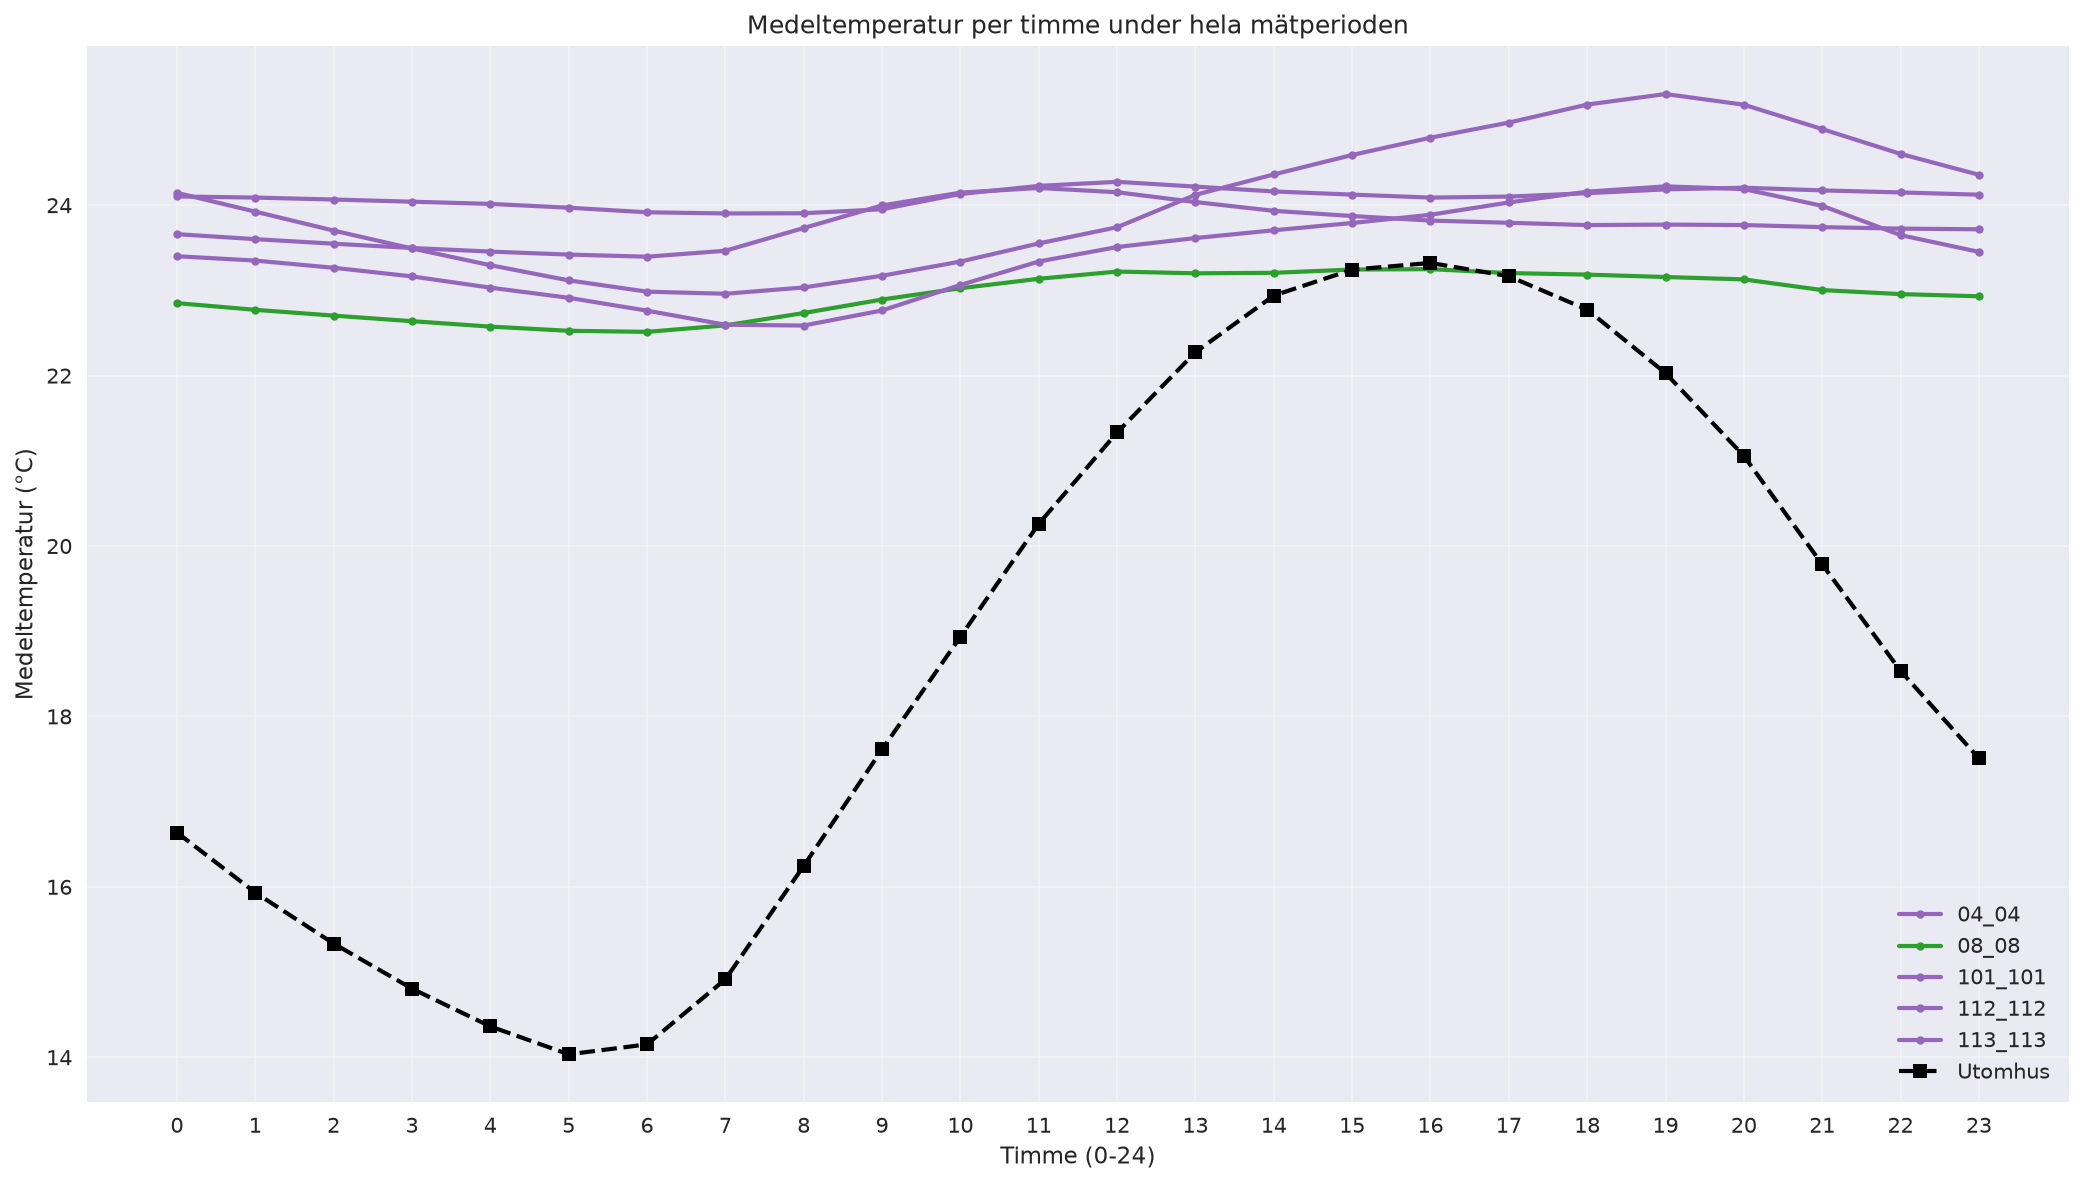
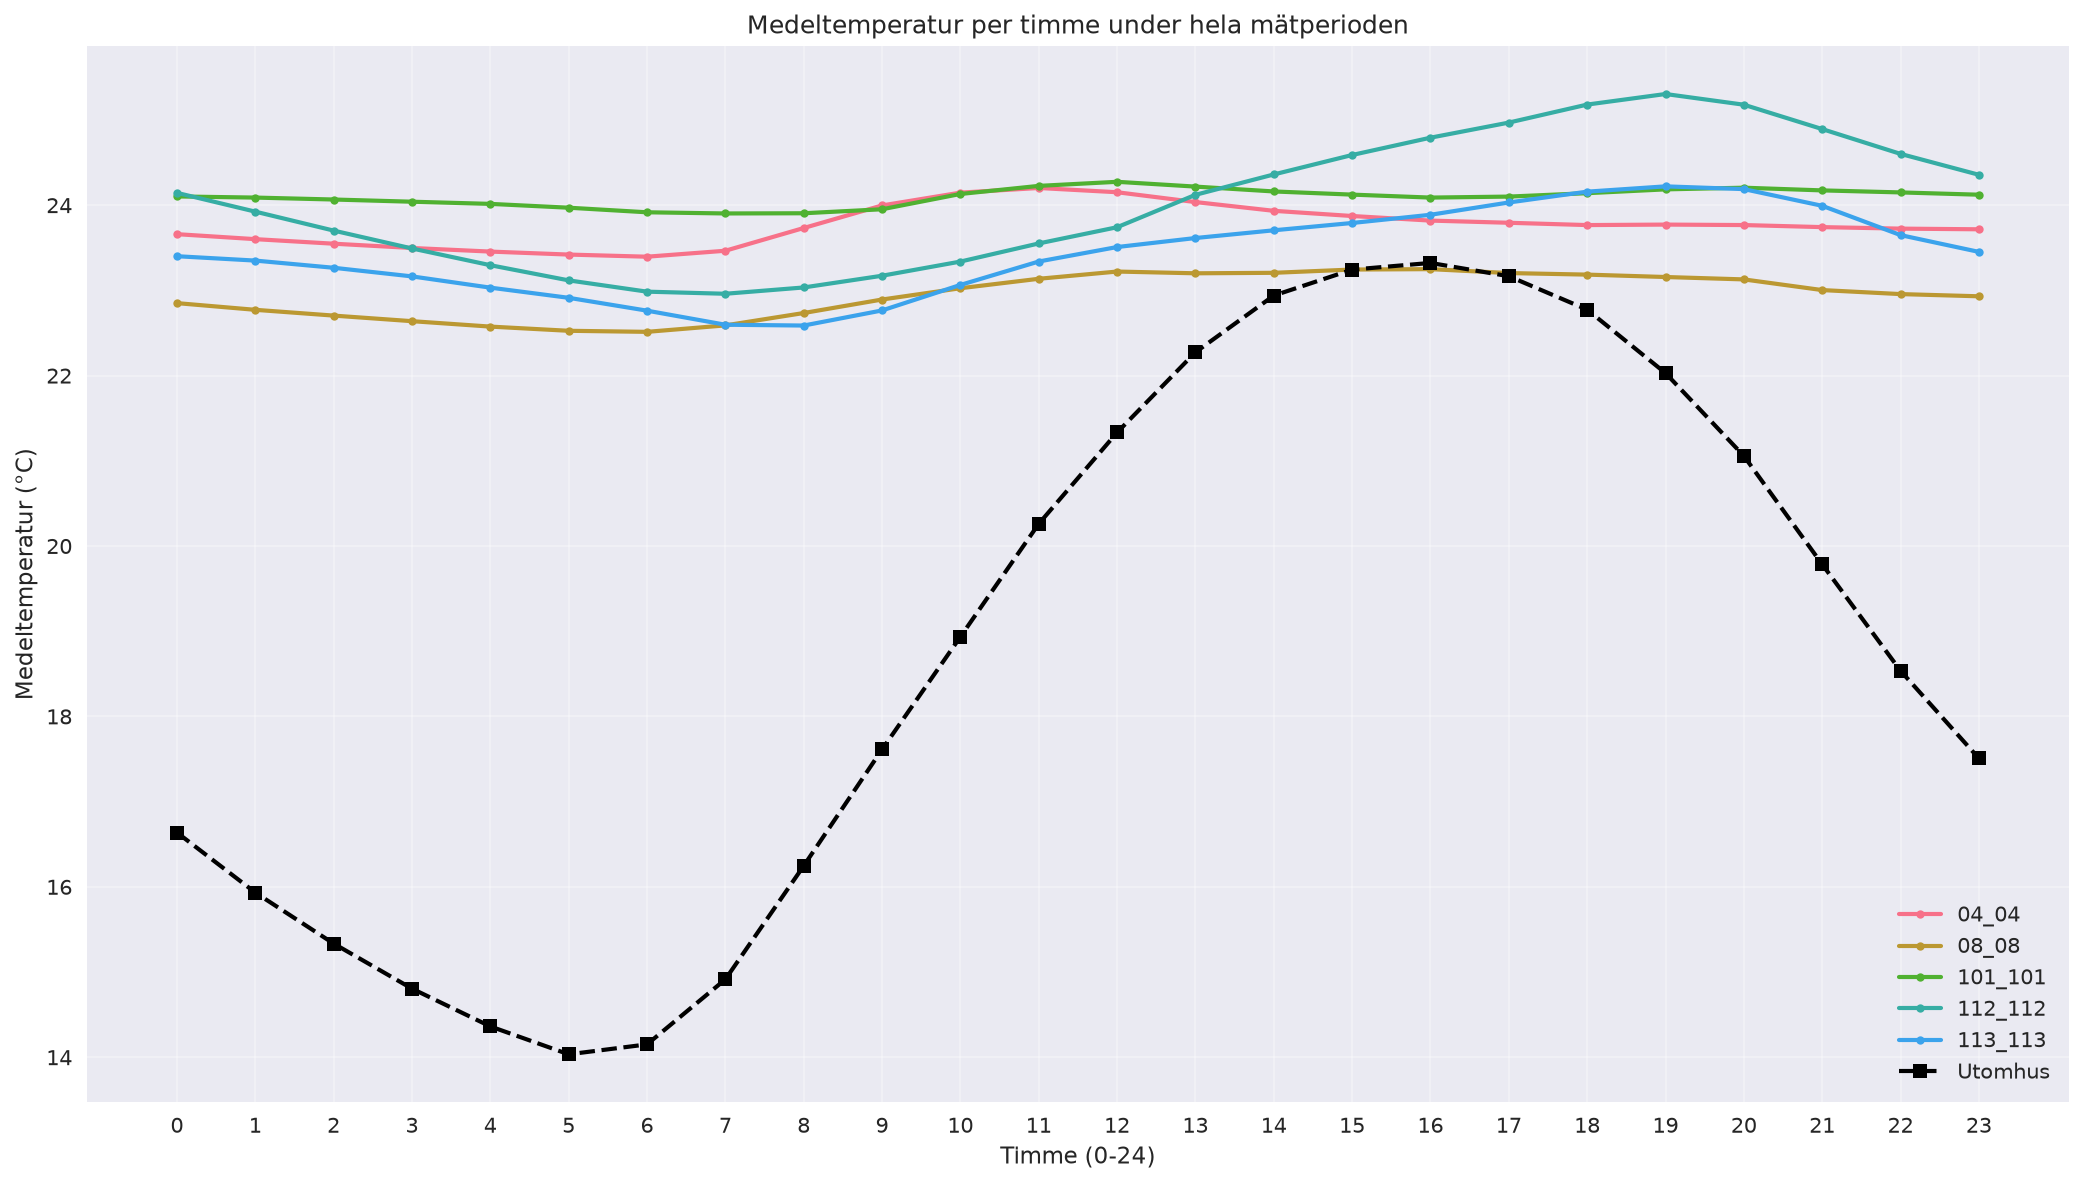
Update hourly temperature diagram with distinct colors for each apartment

diff --git a/analyze_temperature.py b/analyze_temperature.py
@@ -297,14 +297,15 @@ def plot_results(classifications, df_features, sensor_names, indoor_data, outdoo
 
     # --- 6. Medeltemperatur per timme för alla lägenheter ---
     plt.figure(figsize=(14, 8))
-    colors = [HEATING_CATEGORIES[classifications[s]]['color'] for s in sensor_names]
+    # Använd distinkta färger från seaborn-paletten för varje lägenhet
+    distinct_colors = sns.color_palette('husl', n_colors=len(sensor_names) + 1)
     for i, sensor in enumerate(sensor_names):
         df = indoor_data[sensor]
         df['hour'] = df['timestamp'].dt.hour
         hourly_avg = df.groupby('hour')['temperature'].mean()
-        plt.plot(range(24), hourly_avg, label=sensor, color=colors[i], marker='o', linewidth=2, markersize=4)
+        plt.plot(range(24), hourly_avg, label=sensor, color=distinct_colors[i], marker='o', linewidth=2, markersize=4)
     
-    # Lägg till utomhusdata
+    # Lägg till utomhusdata (svart streckad linje)
     outdoor_df['hour'] = outdoor_df['timestamp'].dt.hour
     outdoor_hourly_avg = outdoor_df.groupby('hour')['outdoor_temp'].mean()
     plt.plot(range(24), outdoor_hourly_avg, label='Utomhus', color='k', linewidth=2, linestyle='--', marker='s')
